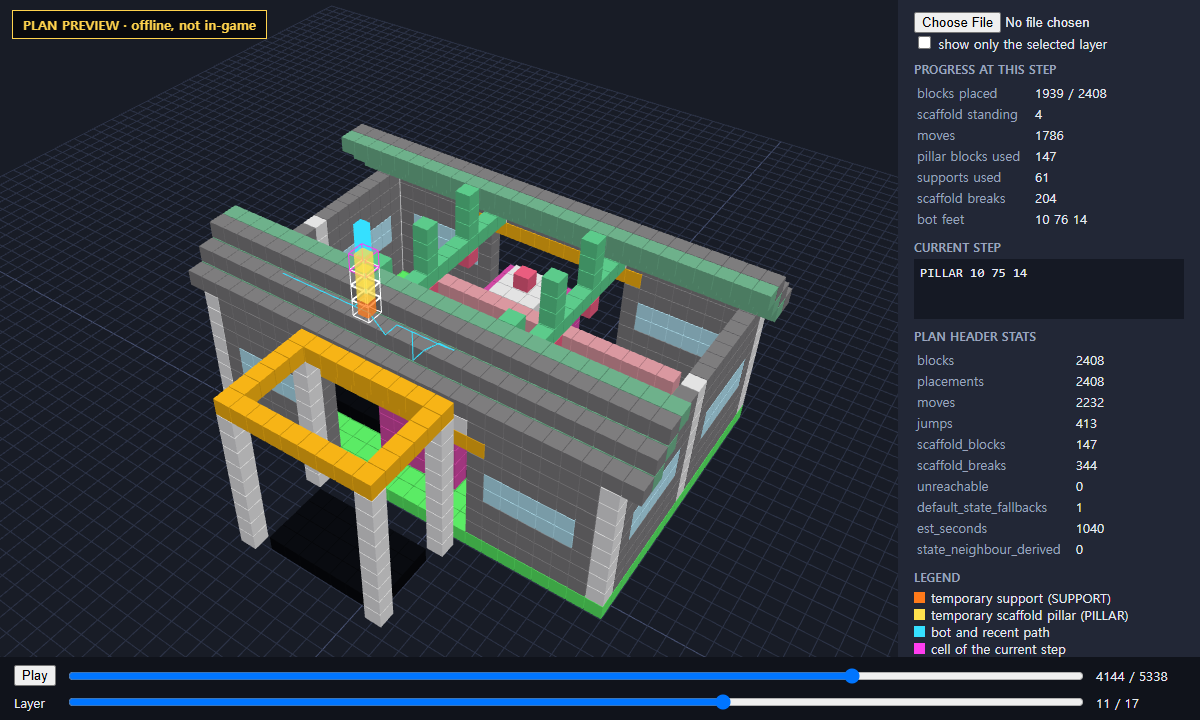
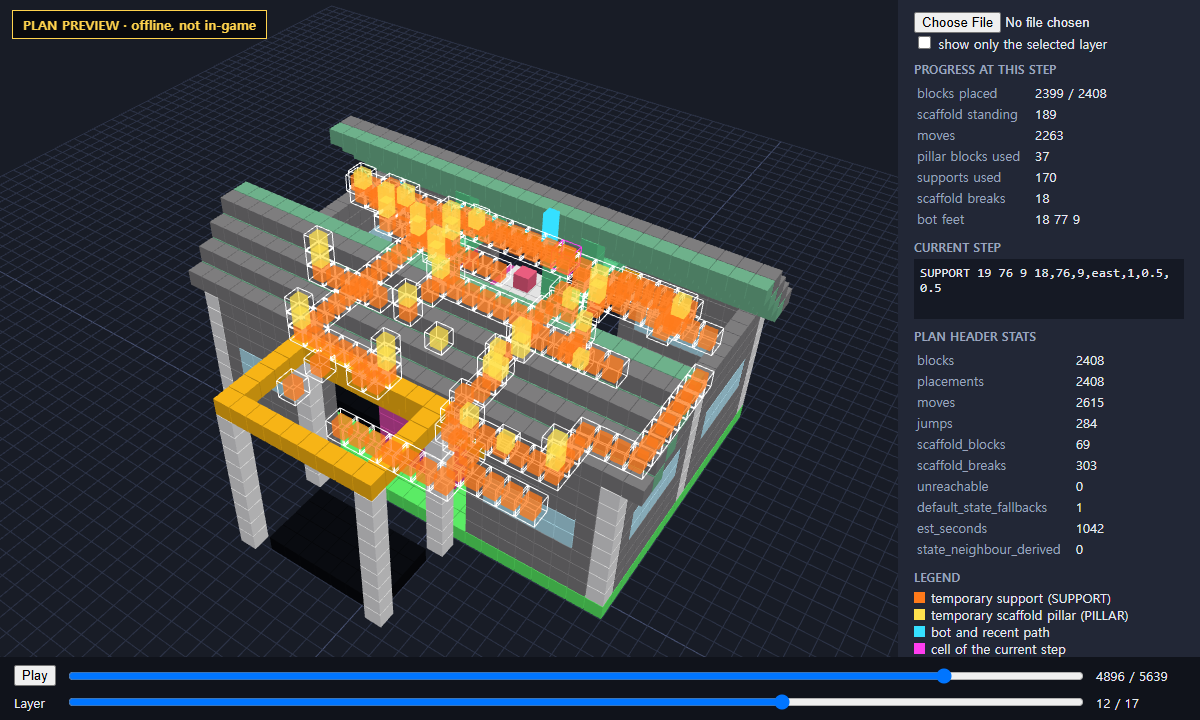
Regenerate plan preview images from the current planner

diff --git a/README.ko.md b/README.ko.md
@@ -79,7 +79,7 @@ python tools/plan_preview/build.py small.bbplan -o preview.html   # preview.html
 ```
 
 <p align="center"><img src="docs/plan-preview.gif" alt="소형 공장 계획 미리보기 애니메이션 (게임 화면 아님)" width="800"></p>
-<p align="center"><sub><b>계획 미리보기이며 게임 화면이 아닙니다:</b> 소형 공장 계획(5338단계)을 브라우저에서 오프라인 재생</sub></p>
+<p align="center"><sub><b>계획 미리보기이며 게임 화면이 아닙니다:</b> 소형 공장 계획(5639단계)을 브라우저에서 오프라인 재생</sub></p>
 
 | 임시 블록과 봇 경로 | 층 슬라이더 (0~5층) |
 |---|---|

diff --git a/README.md b/README.md
@@ -85,7 +85,7 @@ python tools/plan_preview/build.py small.bbplan -o preview.html   # open preview
 ```
 
 <p align="center"><img src="docs/plan-preview.gif" alt="animated plan preview of the small factory (not in-game)" width="800"></p>
-<p align="center"><sub><b>Plan preview, not in-game:</b> the small factory plan (5338 steps) replayed offline in the browser</sub></p>
+<p align="center"><sub><b>Plan preview, not in-game:</b> the small factory plan (5639 steps) replayed offline in the browser</sub></p>
 
 | Temporary blocks and bot path | Layer slider (layers 0 to 5) |
 |---|---|
